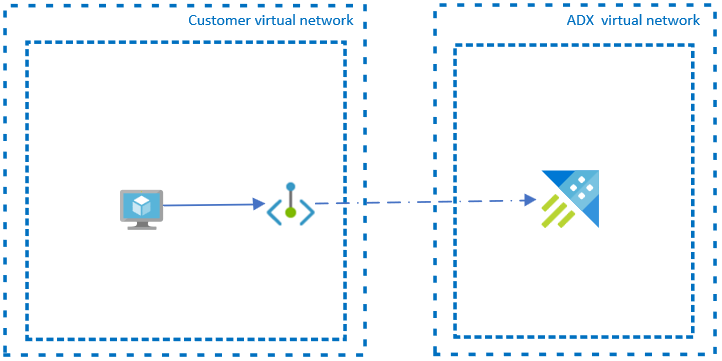
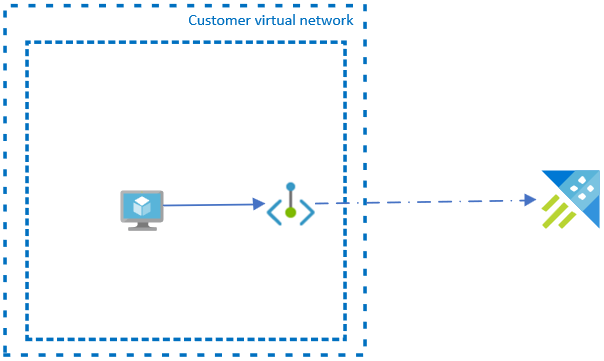
fixed MPE wording and (M)PE diagrams

Changed region(s): [[0.0, 0.0, 1.0, 1.0]]

diff --git a/data-explorer/security-network-private-endpoint.md b/data-explorer/security-network-private-endpoint.md
@@ -68,7 +68,7 @@ To increase security, you also can disable public access to the cluster in the A
 
 ## Managed private endpoints
 
-You can use a managed private endpoint to enable the cluster to securely access your event hub via its private endpoint. When you create a cluster, Azure provisions a managed virtual network in the Microsoft backbone infrastructure. This VNet is isolated and not visible to your users because the Azure Data Explorer service is consumed as a PaaS resource. You can create a managed private endpoint via the REST API to provision a private endpoint in the same virtual network where the root service resources of the cluster reside. This enables the service to access your event hub privately.
+You can use a managed private endpoint to either enable the cluster to securely access your ingestion or query related services via their private endpoint. This allows the Azure Data Explorer cluster to access your resources via private IP address.
 
 :::image type="content" source="media/security-network-private-endpoint/pe-mpe.png" alt-text="Diagram showing the schema of the managed private endpoint architecture.":::
 
